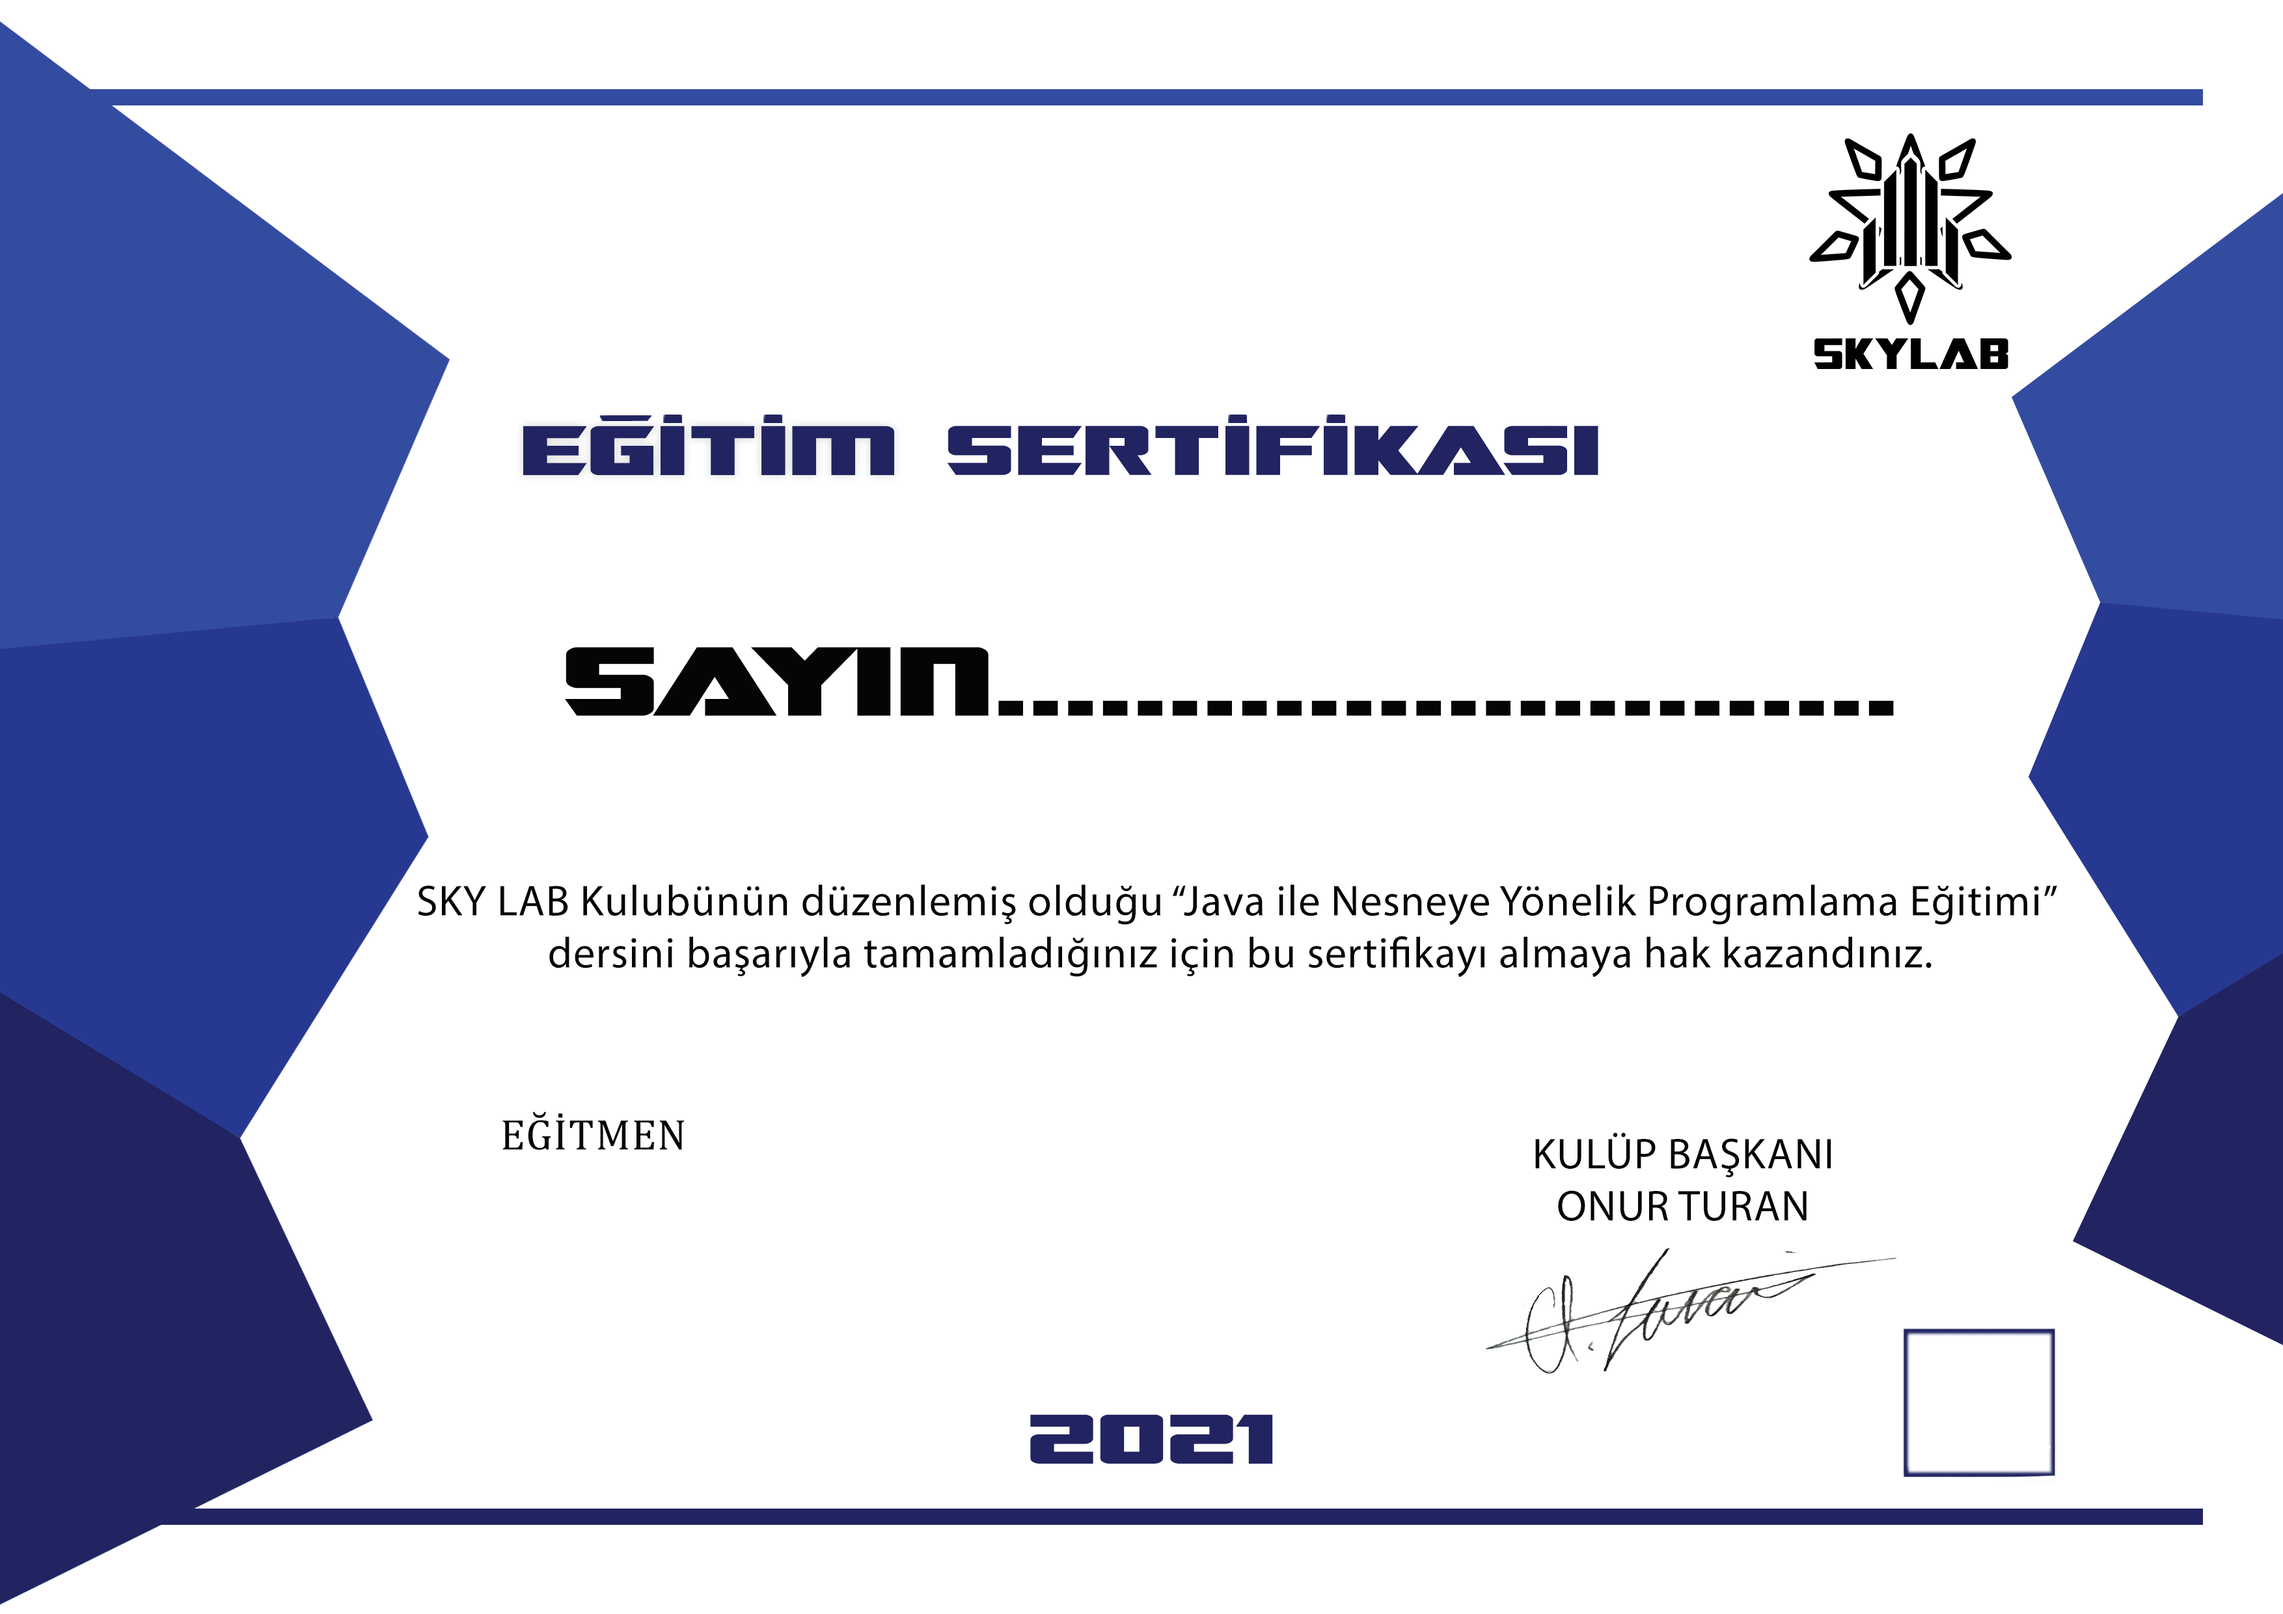
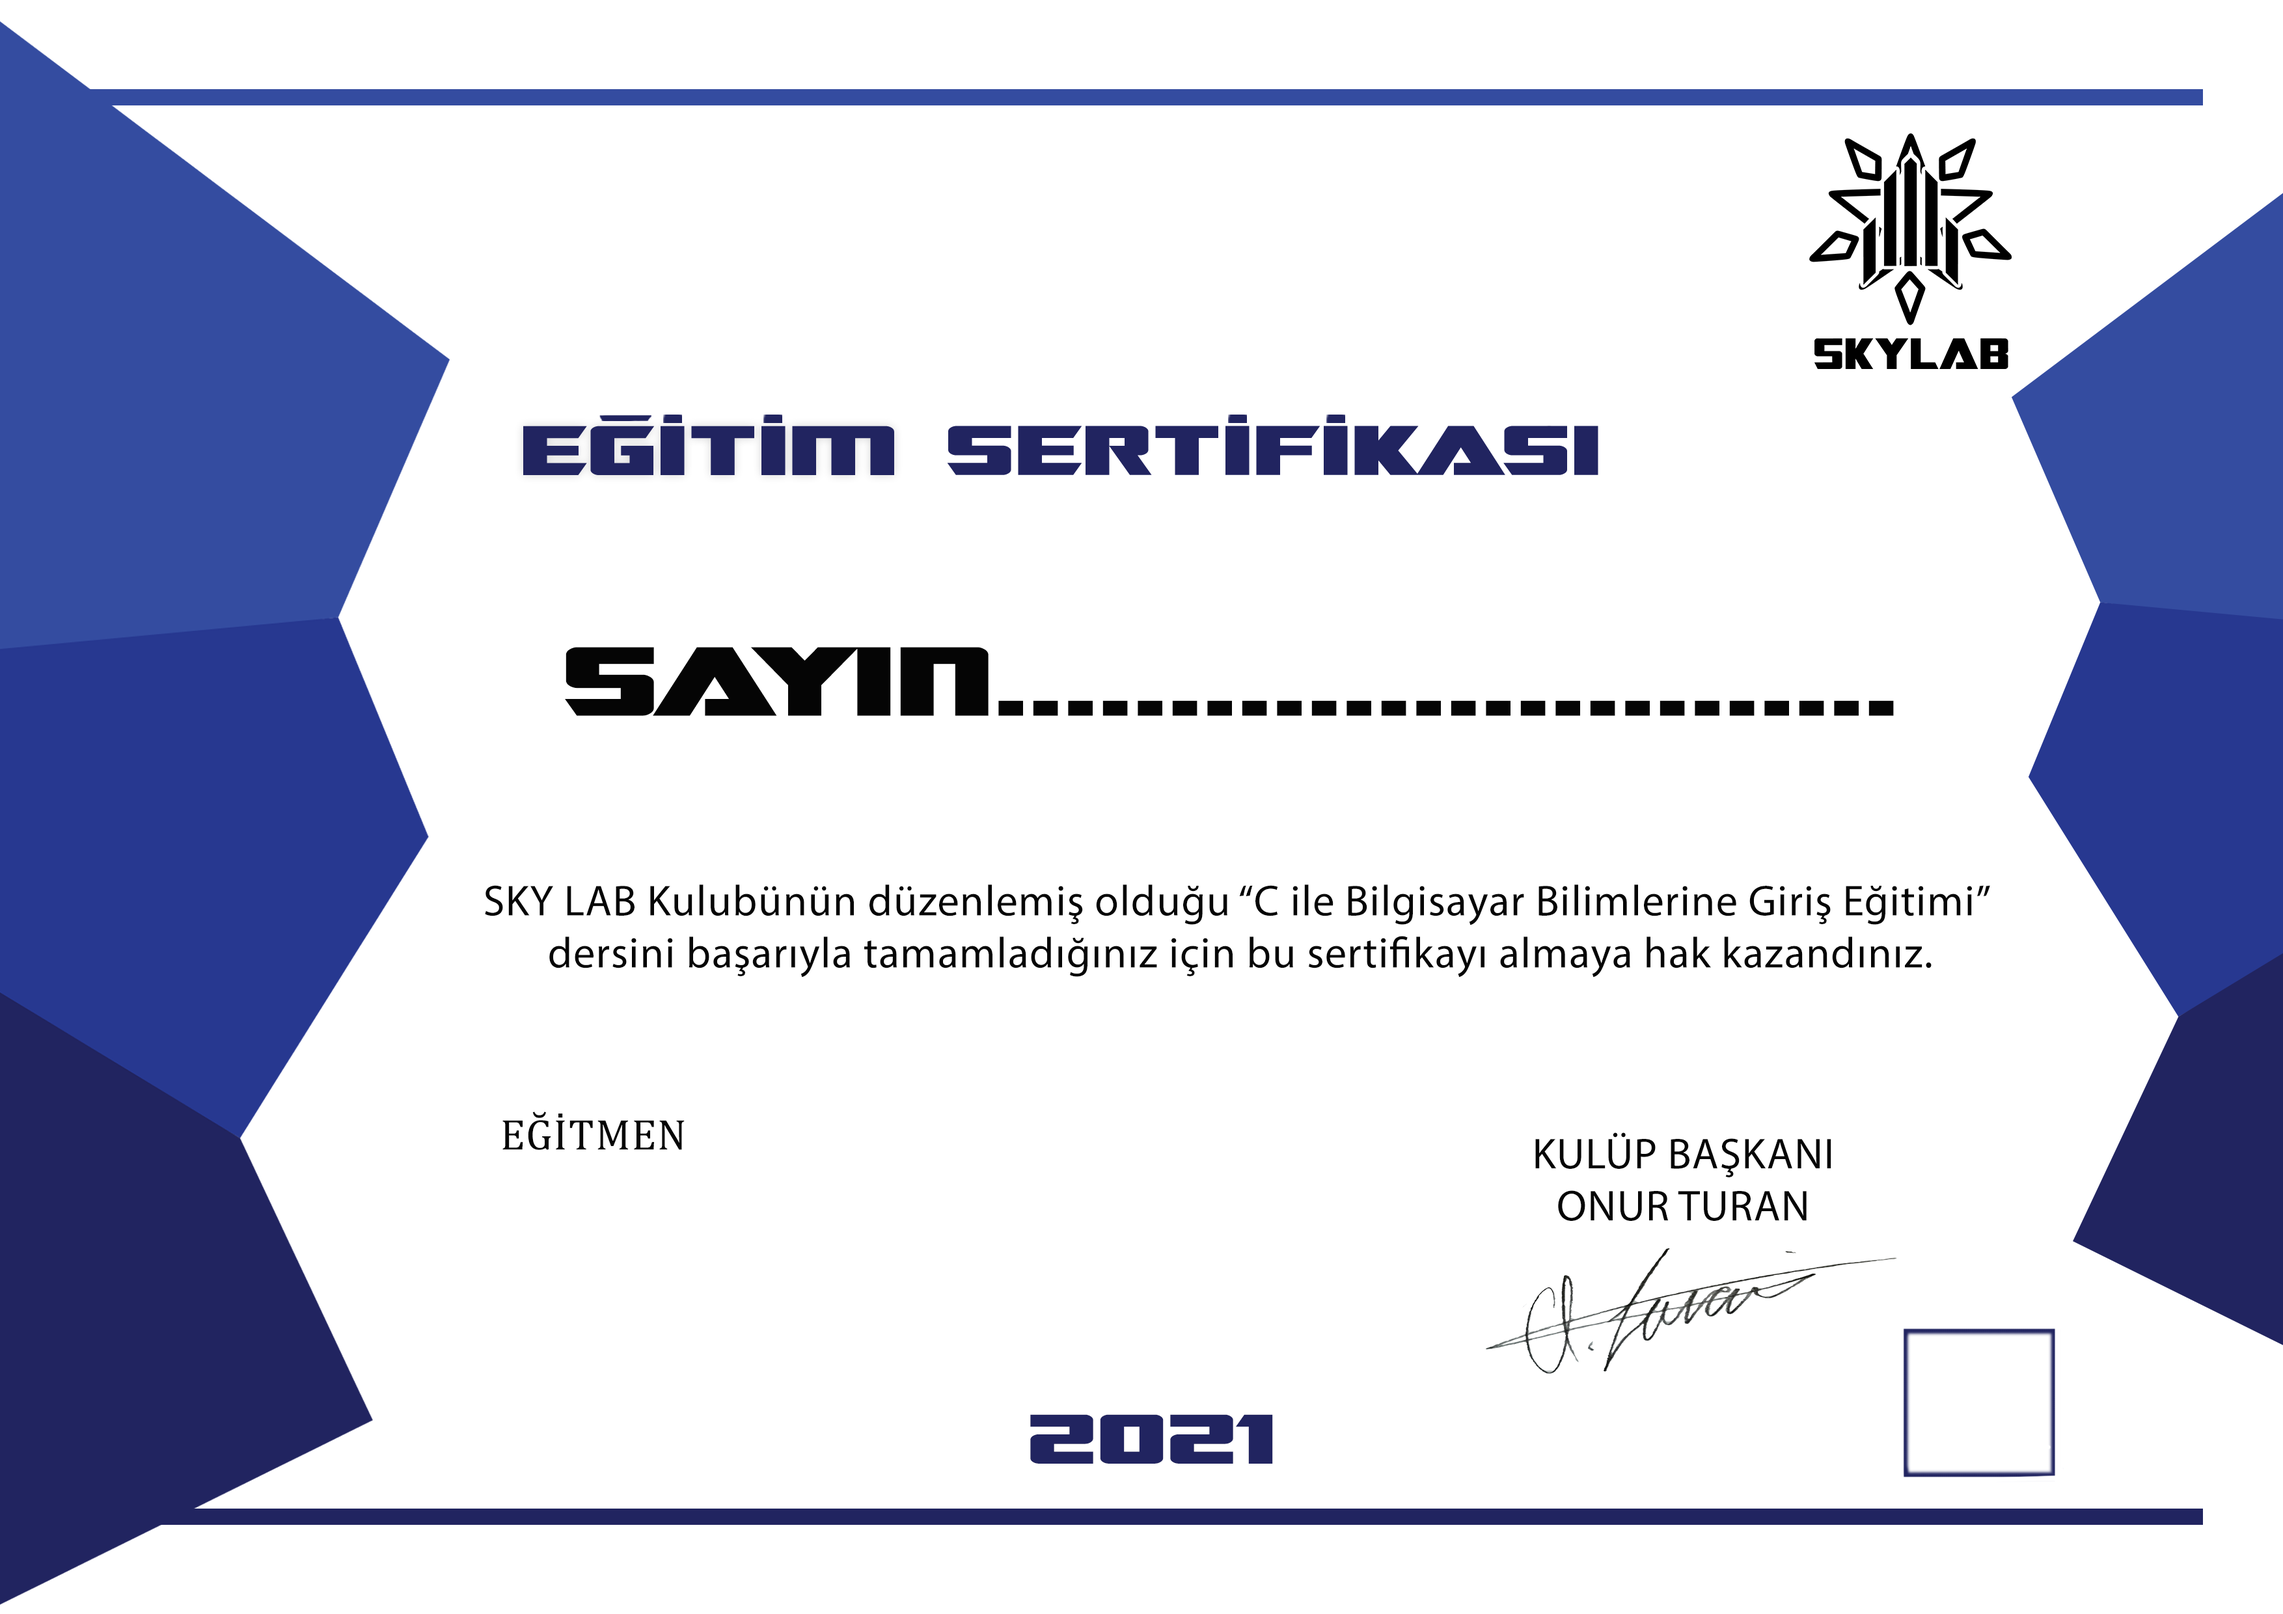
py sertifika v.1

Changed region(s): [[0.1864, 0.5278, 0.87, 0.5899]]

diff --git a/Python/oguz/skylab-certificate-system-main/src/put.py b/Python/oguz/skylab-certificate-system-main/src/put.py
@@ -18,7 +18,7 @@ def qr(img):
 
 def instructor(img): #eğitmen isimleri
     text = get.instructor()
-    stp = 973 #x ekseni sağ sol
+    stp = 963 #x ekseni sağ sol
     font = ImageFont.truetype("arial.ttf", size=65)
     d = ImageDraw.Draw(img)
     y_pix = 1840 #y ekseni yukarı aşağı
@@ -36,6 +36,6 @@ def name(img,user):
     name = user
     font = ImageFont.truetype("arial.ttf", size = 100)
     d = ImageDraw.Draw(img)
-    stp = 2120
-    y_pix = 981
+    stp = 2130
+    y_pix = 975
     d.text((get.start_pix_di(name,font,stp),y_pix),name, fill=(0,0,0,255),font = font)

diff --git a/Python/oguz/skylab-certificate-system-main/src/generate.py b/Python/oguz/skylab-certificate-system-main/src/generate.py
@@ -4,7 +4,7 @@ import qrcode
 def qr():
     qr = qrcode.QRCode(
     error_correction=qrcode.constants.ERROR_CORRECT_H)
-    qr.add_data("https://youtube.com/playlist?list=PLaA2ILkwegBlqfdULzJnDZJSPfWSuVc6a")
+    qr.add_data("https://www.youtube.com/playlist?list=PLbHMt2IypuOQB3avIJe0DFiWHXxca6StZ")
     qr.make()
     qr = qr.make_image().convert('RGB')
     return qr
